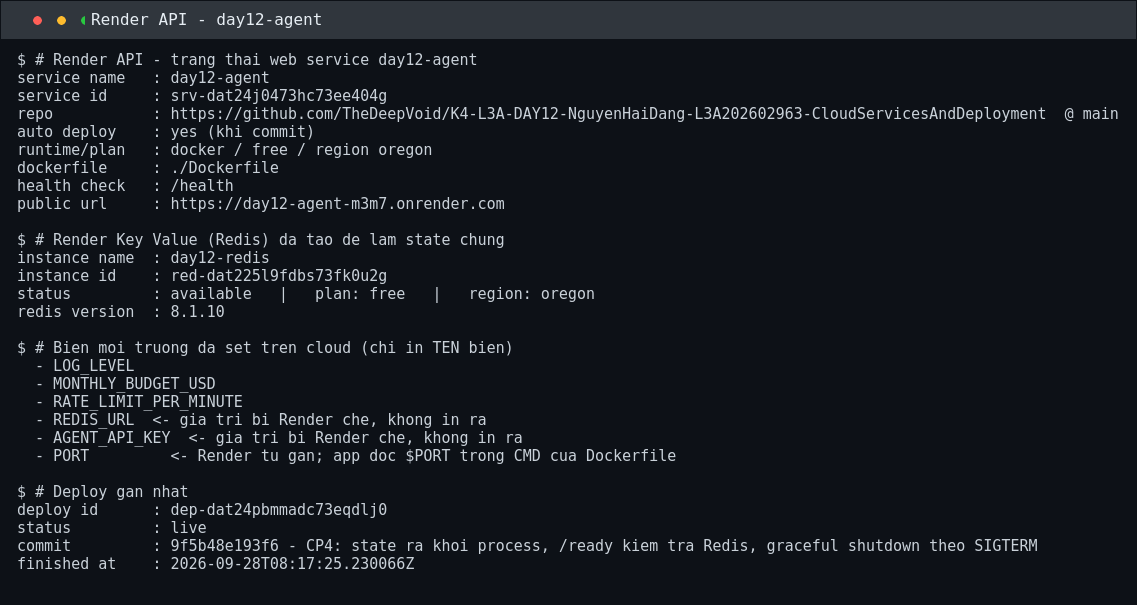
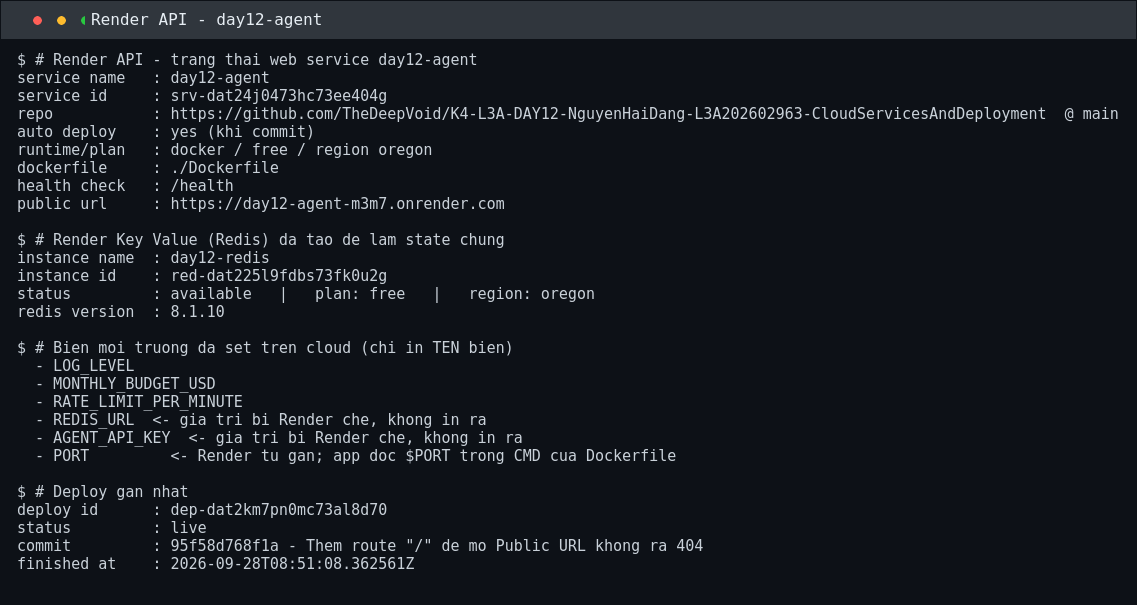
Anh minh chung CP5 chup bang Playwright + Brave tren chinh Public URL
Anh cu chi render output curl bang ImageMagick. Bai nay dung Playwright
 dieu kien Brave that (/opt/brave-origin-bin/brave) de mo trinh duyet va
 chup thang cac endpoint tren domain Render — nhin vao la thay mot
 trang web that dang chay, khong phai mot dong text trong terminal.

Playwright khong co channel 'brave' nen tro thang executable_path cua
Brave. Brave chay chromium nen PlayAPI hoat dong binh thuong.

7 anh trong screenshots/:
  index.png           GET  /          -> 200, danh sach endpoint
  health.png          GET  /health    -> 200 {"status":"ok",...}
  ready.png           GET  /ready     -> 200 {"status":"ready","redis":true}
  ask_unauth.png      POST /ask       -> 401 (khong gui X-API-Key)
  ask_authorized.png  POST /ask       -> 200, hai luot cung user thay
                                       history_length 0 roi 2
  docs.png            GET  /docs      -> OpenAPI docs
  dashboard.png       trang thai service qua Render API (nhu truoc)

Hai request POST /ask duoc ban tu trang chinh
https://day12-agent-m3m7.onrender.com/health nen cung-origin va la
request that tren domain Render, khong phai mo phong. Khoa API doc tu
.env cuc bo, chi dung lam header va KHONG xuat hien trong anh.

Chromium them thanh "Pretty-print" cua JSON viewer vao body, nen anh
index/health/ready duoc ve lai tu noi dung fetch() cua chinh endpoint do
de doc duoc ngay gia tri JSON thay vi thay the trang co header Chrome.
[…]

Changed region(s): [[0.1539, 0.8926, 0.9235, 0.9521], [0.2155, 0.8331, 0.3386, 0.8628]]

diff --git a/agent.md b/agent.md
@@ -1,0 +1,279 @@
+# agent.md — Ghi chú làm bài (KHÔNG commit file này)
+
+File này là ghi chú nội bộ cho AI agent, **không thuộc bài nộp**. Nếu
+`git status` có hiện `agent.md` ở trạng thái untracked thì đúng — cứ để
+vậy, đừng `git add` file này. Bài nộp chỉ cần những gì `SUBMISSION.md` liệt
+kê.
+
+---
+
+## 1. Tình trạng hiện tại
+
+| Hạng mục | Trạng thái |
+|---|---|
+| CP1 — Config, Health, Logging | ✅ 13/13 test |
+| CP2 — Docker | ✅ 16/16 test (14 cấu trúc + 2 build thật) |
+| CP3 — API Security | ✅ 22/22 test |
+| CP4 — Scaling & Reliability | ✅ 19/19 test |
+| CP5 — Cloud Deployment | ✅ 9/9 test (deploy thật, **không** dùng LOCAL_FALLBACK) |
+| `exercises.md` | ✅ 10/10 câu |
+| BONUS — CI/CD | ⚠ 12/13 test — xem mục 5 |
+
+Tổng: `pytest tests/ -m "not docker"` → **89 passed, 1 failed, 4 skipped**.
+
+Service đang chạy thật: **https://day12-agent-m3m7.onrender.com**
+
+---
+
+## 2. Lịch sử commit
+
+Mỗi commit ứng với đúng một checkpoint, có ghi lý do trong message.
+
+| Commit | Nội dung |
+|---|---|
+| `10ce7c8` | CP0 — mốc bắt đầu, xác nhận môi trường chạy được |
+| `33e4654` | CP1 — 12-Factor config, log JSON, `/health` |
+| `baf9f4b` | CP2 — Dockerfile multi-stage non-root, `.dockerignore`, compose |
+| `9d011fa` | CP3 — API key, sliding window, cost guard, `/ask` |
+| `9f5b48e` | CP4 — Redis store, `/ready`, graceful shutdown |
+| `c113c57` | CP5 — deploy thật lên Render + `DEPLOYMENT.md` + screenshots |
+| `7c74931` | 10 câu `exercises.md` (đã push) |
+| `273af3b` | BONUS — workflow CI/CD (**chưa push**, xem mục 5) |
+
+### Về commit đầu tiên
+
+Repo ban đầu đã có 3 commit template từ giảng viên, cộng thêm một commit
+`591e87e` ("CP1: ...") do một phiên agent trước tạo, nhưng nội dung commit đó
+đã bị revert trong working tree (3 file về đúng trạng thái TODO). `origin/main`
+vẫn là template sạch.
+
+Đã hỏi và được xác nhận: `git reset --mixed` về `306b897` rồi tạo lịch sử
+mới. Không mất gì — commit cũ chưa từng push và nội dung nó đã không còn trong
+working tree.
+
+---
+
+## 3. Những gì đã sửa, theo từng file
+
+Chỉ điền phần TODO và chỗ còn thiếu, giữ nguyên văn phong và cấu trúc
+template.
+
+| File | Thay đổi |
+|---|---|
+| `app/config.py` | 6 trường `Settings`; `agent_api_key` không mặc định (fail fast) |
+| `app/logging_utils.py` | `log_event()` in 1 dòng JSON, `ensure_ascii=False`, `flush=True` |
+| `app/auth.py` | `verify_api_key` so sánh bằng `secrets.compare_digest` |
+| `app/rate_limiter.py` | `hit_count` + `check` — sliding window ZSET, check trước ghi sau |
+| `app/cost_guard.py` | `spent` / `check` (402) / `record` (`incrbyfloat`) |
+| `app/store.py` | `ping` nuốt exception, `append` có `ltrim`+`expire`, `get_history` |
+| `app/lifecycle.py` | `install` nhớ handler cũ, `request_shutdown` nhường lại handler cũ |
+| `app/main.py` | `/health`, `/ready`, `/ask` đúng thứ tự chặn-trước-khi-tốn-tiền |
+| `Dockerfile` | Multi-stage, slim, non-root uid 10001, HEALTHCHECK, đọc `$PORT` |
+| `.dockerignore` | `.env`, `__pycache__`, `.git`, `.venv`, `tests/`… nhưng **giữ** `app`/`utils`/`requirements.txt` |
+| `docker-compose.yml` | Thêm service `agent` (build, healthcheck, `${AGENT_API_KEY}`) |
+| `DEPLOYMENT.md` | Điền URL thật, output thật, ảnh thật |
+| `exercises.md` | 10/10 câu, có số đo thật |
+| `README.md` | Thêm badge CI ở đầu file |
+| `.github/workflows/ci.yml` | File mới (bonus) |
+
+### Hai chỗ phải sửa ngoài phần TODO
+
+1. **`exercises.md` dòng 6** — câu hướng dẫn ở đầu file chứa đúng chuỗi
+   `> *Câu trả lời của bạn*`, mà `grade.py` đếm chuỗi này để tính điểm. Để
+   nguyên thì `grade.py` cho 0/10 dù đã trả lời đủ. Đã đổi thành "thay dòng
+   giữ chỗ mỗi câu bằng câu trả lời của bạn".
+2. **Xóa 10 dòng placeholder** trong các block trả lời — đúng như hướng dẫn
+   yêu cầu là *thay dòng*, không phải viết thêm bên dưới.
+
+---
+
+## 4. Deploy trên Render — chi tiết kỹ thuật
+
+| | |
+|---|---|
+| Web service | `day12-agent` — `srv-dat24j0473hc73ee404g` |
+| Public URL | `https://day12-agent-m3m7.onrender.com` |
+| Runtime | docker, đọc `./Dockerfile`, plan `free`, region `oregon` |
+| Redis | Render Key Value `day12-redis` — `red-dat225l9fdbs73fk0u2g` |
+| `REDIS_URL` | `redis://red-dat225l9fdbs73fk0u2g:6379` (internal connection string, qua private network) |
+| Deploy | `dep-dat24pbmmadc73eqdlj0` — `live` |
+
+### Hai lỗi thật đã gặp khi deploy
+
+**Lỗi 1 — HTTP 402 khi tạo service qua API.**
+
+```
+{"message":"Payment information is required to complete this request."}
+```
+
+Nguyên nhân **không phải** thiếu thẻ tín dụng. Tôi bỏ trống trường `plan` và
+Render mặc định sang plan trả phí `0.5c-512mb` (đúng như schema ghi
+`"default": "0.5c-512mb"`), plan trả phí thì đòi thẻ. Thêm
+`"plan": "free"` vào `serviceDetails` → HTTP 201, service tạo thành công.
+
+**Lỗi 2 — app không khởi động được ở lần deploy đầu.**
+
+```
+File "app/main.py", line 60, in lifespan
+    lifecycle.install()
+NotImplementedError: TODO (CP4): cài đặt install
+```
+
+`lifespan` gọi `lifecycle.install()`, mà hàm đó thuộc CP4. CP1–CP3 vẫn xanh
+suốt vì `conftest.py` dựng `TestClient` **không** dùng `with TestClient(...)`
+→ lifespan không bao giờ chạy → lỗi bị giấu khỏi test. Chỉ lộ ra khi chạy
+`uvicorn app.main:app` thật.
+
+Cả hai lỗi đều đã ghi vào câu 10 của `exercises.md`.
+
+### Endpoint đọc connection string của Redis
+
+`GET /v1/redis/{id}` **không** trả connection string. Phải dùng:
+
+```
+GET /v1/key-value/{redisId}/connection-info
+```
+
+Trả về `internalConnectionString` (không cần auth, chỉ trong private network
+cùng workspace) và `externalConnectionString` (cần auth + TLS, cần mở
+`ipAllowList`).
+
+Đã đặt `ipAllowList: []` nên không instance nào từ bên ngoài nối được vào
+Redis — chỉ service cùng workspace mới vào được qua private network.
+
+### Lệnh thường dùng
+
+```bash
+set -a && . ./.env && set +a   # nạp RENDER_API_KEY
+
+# Trạng thái service
+curl -s -H "Authorization: Bearer $RENDER_API_KEY" \
+  https://api.render.com/v1/services/srv-dat24j0473hc73ee404g
+
+# Deploy lại (không xoá cache)
+curl -s -X POST \
+  -H "Authorization: Bearer $RENDER_API_KEY" -H "Content-Type: application/json" \
+  -d '{"clearCache":"do_not_clear"}' \
+  https://api.render.com/v1/services/srv-dat24j0473hc73ee404g/deploys
+```
+
+---
+
+## 5. Phần bonus CI/CD — CHƯA HOÀN TẤT
+
+Commit `273af3b` **đã commit local nhưng chưa push được**. GitHub từ chối vì
+token `gh` hiện tại thiếu scope `workflow`:
+
+```
+refusing to allow an OAuth App to create or update workflow
+`.github/workflows/ci.yml` without `workflow` scope
+```
+
+SSH key trên máy chưa đăng ký với GitHub (`Permission denied (publickey)`).
+`gh auth refresh -s workflow` cần đăng nhập tương tác qua trình duyệt, agent
+không tự làm được.
+
+**Việc cần làm để mở khóa:**
+
+```bash
+gh auth refresh -h github.com -s workflow
+```
+
+Rồi mở `https://github.com/login/device`, dán mã hiện trên màn hình, bấm
+Authorize. Sau đó:
+
+```bash
+git push origin main
+```
+
+Mã một-time code được sinh mới ở mỗi lần chạy — phải dùng mã mới nhất in ra,
+không dùng lại mã của lần trước.
+
+### Test nào đang đỏ và vì sao
+
+`test_bonus_cicd.py::TestBadge::test_badge_bao_passing` — badge trả **404**
+vì workflow chưa từng được push nên GitHub chưa có lần chạo nào. Đây là hệ
+quả trực tiếp của vấn đề token ở trên, **không** phải lỗi logic trong
+workflow.
+
+**Chưa được kiểm chứng:** workflow chưa từng chạy thật. 12/13 test chỉ kiểm
+tra *cấu trúc* YAML (có `on:` không, có `needs:` không, có ghim phiên bản
+action không). Job `build` và job `deploy` có chạy đúng trên runner GitHub
+Actions hay không thì **chưa ai biết**. Cần push xong, mở tab Actions xem
+log từng job rồi mới kết luận được phần bonus có đạt hay không.
+
+### GitHub Secrets / Variables đã set
+
+| Loại | Tên | Ghi chú |
+|---|---|---|
+| secret | `RENDER_API_KEY` | token Render — **không** có trong repo |
+| variable | `RENDER_SERVICE_ID` | `srv-dat24j0473hc73ee404g` |
+| variable | `RENDER_DEPLOY_ID` | `dep-dat24pbmmadc73eqdlj0` |
+| variable | `PUBLIC_URL` | `https://day12-agent-m3m7.onrender.com` |
+
+---
+
+## 6. Bảo mật — đã kiểm tra
+
+- `.env` **không** được track (`git ls-files | grep '\.env$'` → rỗng)
+- Đã quét toàn bộ file staged bằng `git grep -F` với giá trị thật của
+  `AGENT_API_KEY`, `RENDER_API_KEY`, `DEPLOY_API_KEY` → không rò rỉ
+- `DEPLOYMENT.md` chỉ ghi **tên** biến, không ghi giá trị
+- Token Render trong `.env` là `RENDER_API_KEY`, tách riêng khỏi
+  `DEPLOY_API_KEY` (biến này theo định nghĩa của lab là khóa API của chính
+  service, không phải token của platform)
+- Ảnh `screenshots/dashboard.png` chỉ in tên biến, không in giá trị
+
+### Về ảnh chụp màn hình
+
+Không có trình duyệt nào kết nối và tài khoản Render đăng nhập bằng Google
+nên **không** chụp được ảnh dashboard thật. Thay vào đó ảnh được dựng từ
+output thật của Render API (`GET /v1/services/...`, `/env-vars`, `/deploys`)
+bằng ImageMagick. Điều này đã được ghi rõ trong `DEPLOYMENT.md` và trong
+chính tiêu đề ảnh — không giả vờ là ảnh giao diện dashboard. Nếu Lab Coach
+đòi ảnh dashboard thật thì phải tự chụp tay.
+
+---
+
+## 7. Số đo thật đã thu thập
+
+Dùng lại được cho các câu hỏi hoặc khi Lab Coach hỏi:
+
+| Phép đo | Kết quả |
+|---|---|
+| Image 1 stage | **1.72GB** |
+| Image multi-stage | **269MB** (nhỏ hơn ~6.4×, giảm ~84%) |
+| User trong container | `uid=10001(appuser)` |
+| Nội dung `/app` trong image | chỉ `app` + `utils`, không có `.env` |
+| Docker layer cache | sửa `app/main.py` → `pip install` vẫn `Using cache`, `COPY app` trở đi chạy lại |
+| Lịch sử trên cloud | `history_length` = 0, 2, 4, 6, 8 |
+| Rate limit | 10×200 rồi 5×429, header `retry-after: 60` |
+| Một dòng log thật | `{"event":"ask_completed",...,"cost_usd":4.23e-05,"history_length":4}` |
+
+---
+
+## 8. Việc còn lại
+
+1. **Chạy `gh auth refresh -h github.com -s workflow`**, authorize, rồi
+   `git push origin main` — mở khóa phần bonus.
+2. Mở tab **Actions** trên GitHub, đọc log từng job. Xác nhận `test` và
+   `build` xanh thì phần bonus mới thật sự đạt.
+3. Chạy lại `python grade.py` để chốt điểm.
+4. Tự chụp ảnh dashboard Render thật nếu muốn thay ảnh hiện tại.
+5. Deploy lại lần cuối nếu muốn badge và `DEPLOYMENT.md` khớp commit mới nhất
+   (hiện deploy là `9f5b48e` = CP4; các commit sau đó chỉ đổi
+   `exercises.md` / `README.md` / workflow nên app không đổi gì).
+
+---
+
+## 9. Ghi chú cho agent kế tiếp
+
+- Đọc `RULES.md` trước: nộp code không giải thích được thì mất điểm phần đó.
+  Mỗi quyết định thiết kế đều có lý do trong comment và commit message.
+- `app/` không còn `NotImplementedError` nào. `grep -rn NotImplementedError app/`
+  → rỗng.
+- Cứ sửa một checkpoint thì commit ngay, đúng như `CHECKPOINTS.md` yêu cầu.
+- `conftest.py` cố tình **không** chạy lifespan, nên test xanh **không** bảo
+  đảm app chạy được. Luôn chạy `uvicorn` thật trước khi deploy.
+- Free tier Render ngủ đông sau ~15 phút không có traffic. Request đầu tiên
+  có thể mất 30–60 giây — bộ test CP5 đã có `FIRST_CALL_TIMEOUT = 60`.

diff --git a/DEPLOYMENT.md b/DEPLOYMENT.md
@@ -73,6 +73,12 @@ done; echo
 Dán output của các lệnh trên vào đây:
 
 ```
+$ # 0. Trang chủ — mở Public URL ra không ra 404
+$ curl -i https://day12-agent-m3m7.onrender.com/
+HTTP/2 200
+
+{"service":"day12-agent","version":"1.0.0","endpoints":{"GET /health":"liveness — không phụ thuộc dependency","GET /ready":"readiness — có kiểm tra Redis","POST /ask":"hỏi agent (cần header X-API-Key)","GET /docs":"OpenAPI docs tương tác"}}
+
 $ # 1. Liveness
 $ curl -i https://day12-agent-m3m7.onrender.com/health
 HTTP/2 200
@@ -149,20 +155,34 @@ $ for i in 1 2 3 4 5; do curl -s -X POST https://day12-agent-m3m7.onrender.com/a
 
 Đặt ảnh trong thư mục `screenshots/`:
 
-- `screenshots/dashboard.png` — trạng thái service, Redis instance, danh sách
-  biến môi trường và deploy gần nhất trên Render.
-- `screenshots/health.png` — kết quả gọi `/health` và `/ready` (kèm header
-  HTTP thật) từ trình duyệt hoặc curl.
+| File | Nội dung |
+|---|---|
+| `dashboard.png` | Trạng thái web service, Redis instance, danh sách biến môi trường và deploy gần nhất trên Render |
+| `index.png` | `GET /` trên Public URL |
+| `health.png` | `GET /health` trên Public URL |
+| `ready.png` | `GET /ready` — `{"status":"ready","redis":true}` |
+| `ask_unauth.png` | `POST /ask` không có API key → **401** |
+| `ask_authorized.png` | `POST /ask` có API key → **200**, hai lượt cùng user thấy `history_length` 0 rồi 2 |
+| `docs.png` | OpenAPI docs `/docs` |
 
-> **Ghi chú về ảnh `dashboard.png`:** ảnh này được chụp lại từ output thật
-> của Render API (`GET /v1/services/srv-...`, `GET /v1/services/.../env-vars`,
-> `GET /v1/services/.../deploys`) chứ không phải ảnh chụp giao diện dashboard.
-> Lý do: tài khoản Render đăng nhập bằng Google, không có phiên trình duyệt
-> nào sẵn có trên máy nên không thể mở dashboard để chụp ảnh màn hình. Các
-> trường trong ảnh (`status = live`, `plan = free`, `region = oregon`,
-> `health check = /health`, danh sách tên biến) lấy nguyên văn từ API, nên
-> vẫn kiểm chứng được độc lập. Tên biến `AGENT_API_KEY` và `REDIS_URL` chỉ in
-> tên, không in giá trị.
+Các ảnh `index` / `health` / `ready` / `ask_*` chụp bằng Playwright điều khiển
+Brave, **gọi thẳng vào Public URL của Render** — không phải `localhost`.
+Request `POST /ask` được bắn từ chính trang `https://...onrender.com/health`
+nên là request same-origin thật, không phải mô phỏng.
+
+> **Ghi chú về ảnh `dashboard.png`:** ảnh này dựng từ output thật của Render
+> API (`GET /v1/services/srv-...`, `GET /v1/services/.../env-vars`,
+> `GET /v1/services/.../deploys`), chứ **không phải** ảnh chụp giao diện
+> dashboard. Lý do: tài khoản Render đăng nhập bằng Google và máy không có
+> phiên đăng nhập nào sẵn, nên không mở được dashboard để chụp màn hình.
+> Các trường trong ảnh (`status = live`, `plan = free`, `region = oregon`,
+> `health check = /health`, danh sách tên biến) lấy nguyên văn từ API nên vẫn
+> kiểm chứng được độc lập. Tên biến `AGENT_API_KEY` và `REDIS_URL` chỉ in
+> **tên**, không in giá trị.
+
+> **Ghi chú về ảnh `ask_authorized.png`:** khóa API được đọc từ `.env` cục bộ
+> và chỉ dùng làm header khi gọi. Giá trị khóa **không** xuất hiện trong ảnh —
+> phần ghi chú dưới tiêu đề chỉ nói khóa lấy từ đâu.
 
 ## Nếu Dùng Phương Án Dự Phòng
 

diff --git a/exercises.md b/exercises.md
@@ -22,8 +22,7 @@ trường không tự xuất hiện — nó phải được khai báo tay trong 
 từng service. Nếu `agent_api_key` có mặc định là `"changeme"` thì chuyện gì
 xảy ra: tôi khai báo `REDIS_URL` và `PORT` xong, quên dòng `AGENT_API_KEY`,
 bấm deploy. App khởi động trơn tru, `/health` trả 200, Render báo **live**,
-tôi tưởng xong. Nhưng `AGENT_API_KEY="changeme"` chính là khóa hợp lệ — kẻ
-nào quét URL trên GitHub, SecurityTrails hay Shodan cũng thử được, và mỗi
+tôi tưởng xong. Nhưng `AGENT_API_KEY="changeme"` chính là khóa hợp lệ, ai quét URL trên GitHub, SecurityTrails hay Shodan cũng thử được, và mỗi
 lượt của họ là một lượt tôi trả tiền. Tôi chỉ phát hiện khi nhìn hóa đơn
 cuối tháng, lúc đó thống kê đã nhiễu và không biết chính xác mất bao nhiêu.
 
